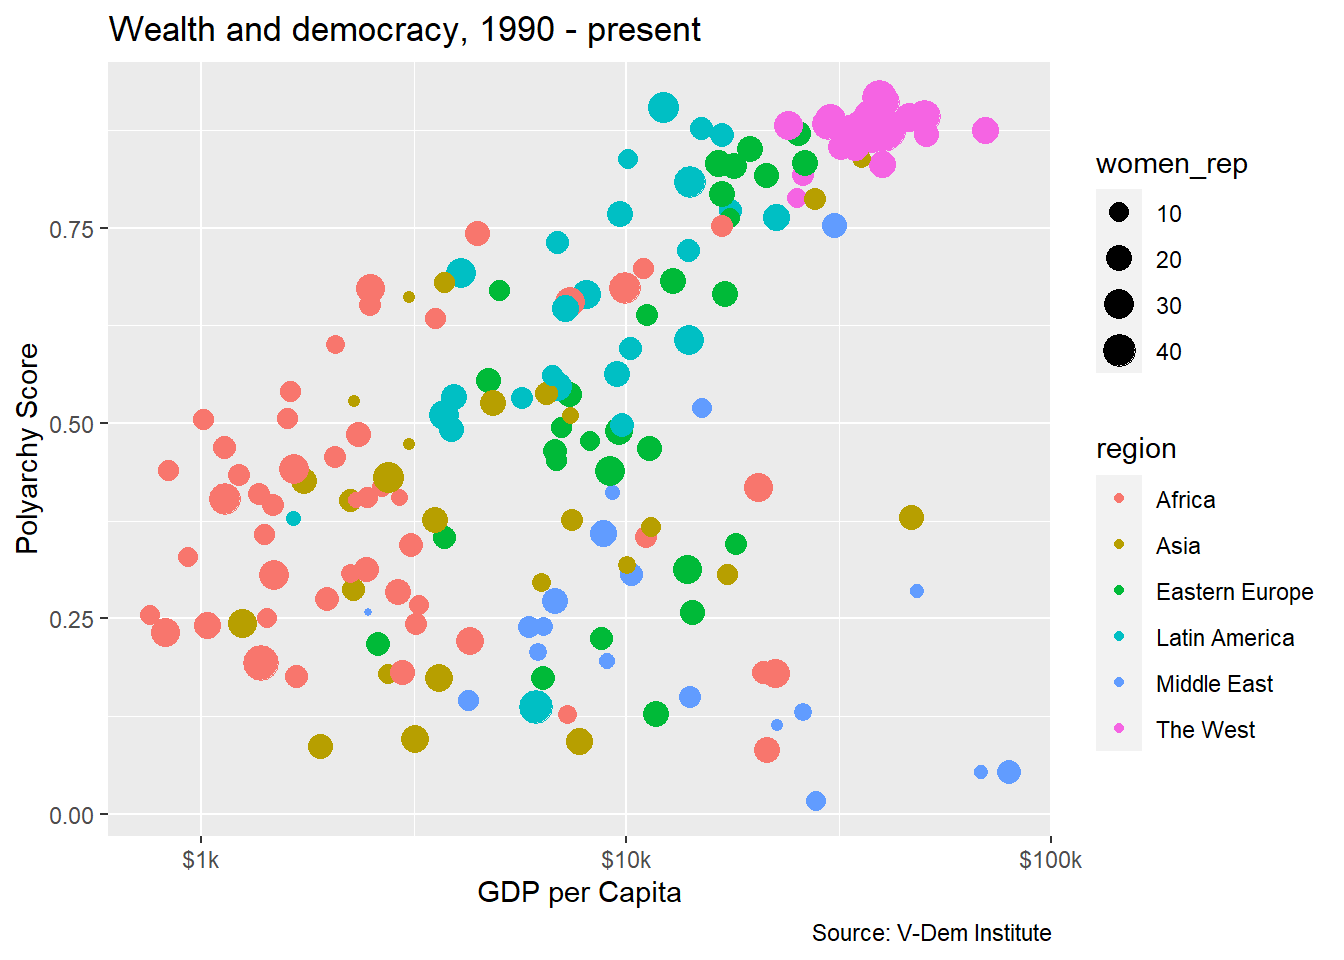
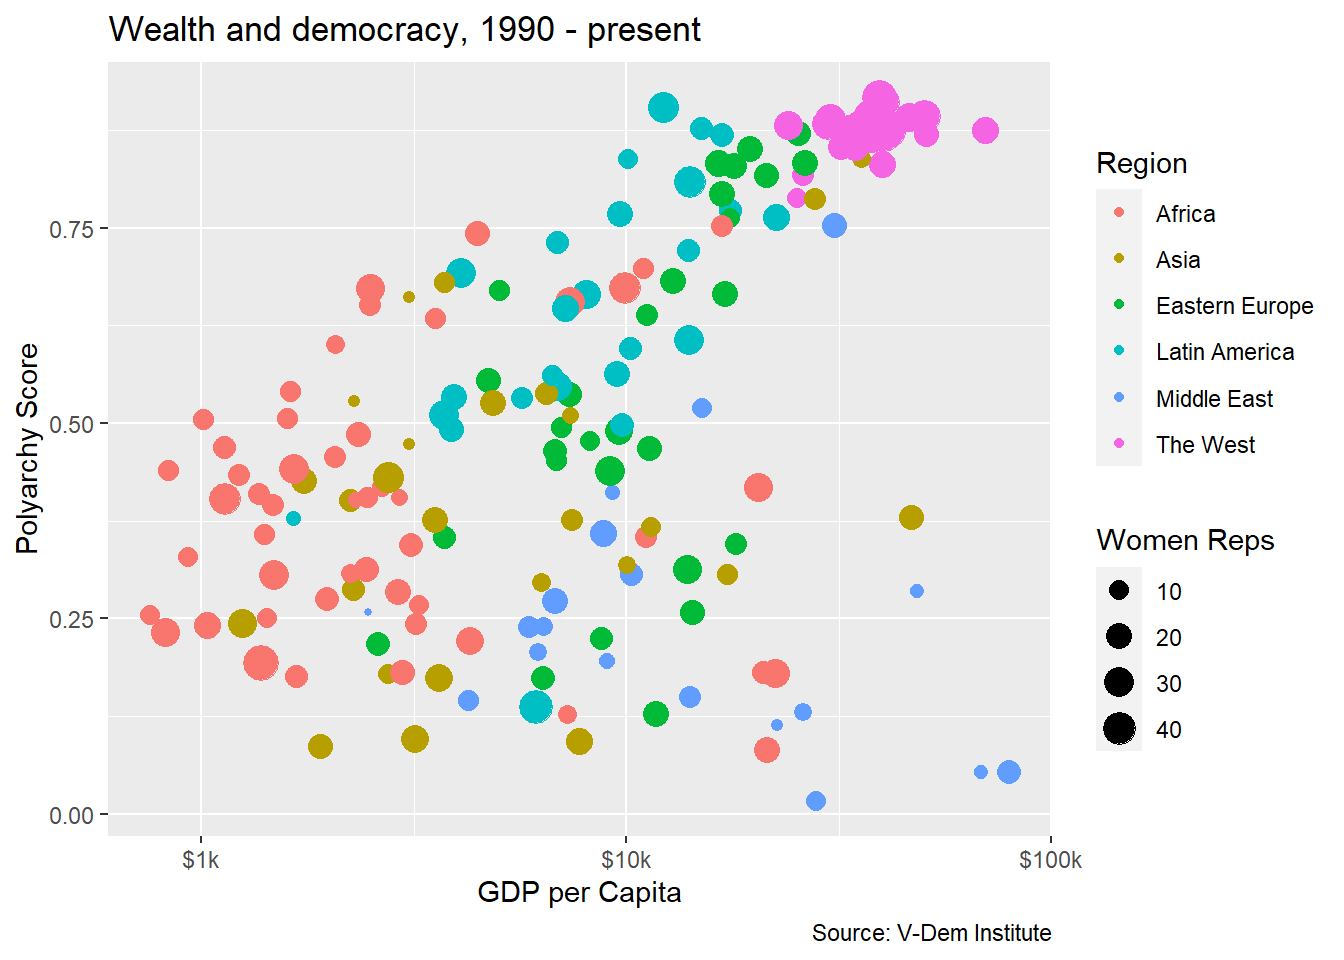
update module 2.1

diff --git a/_site/modules/module-2.1.html b/_site/modules/module-2.1.html
@@ -453,9 +453,10 @@ code span.wa { color: #60a0b0; font-weight: bold; font-style: italic; } /* Warni
 <span id="cb6-3"><a href="#cb6-3" aria-hidden="true" tabindex="-1"></a>  <span class="fu">labs</span>(</span>
 <span id="cb6-4"><a href="#cb6-4" aria-hidden="true" tabindex="-1"></a>    <span class="at">x =</span> <span class="st">"Year"</span>, </span>
 <span id="cb6-5"><a href="#cb6-5" aria-hidden="true" tabindex="-1"></a>    <span class="at">y =</span> <span class="st">"Polyarchy Score"</span>, </span>
-<span id="cb6-6"><a href="#cb6-6" aria-hidden="true" tabindex="-1"></a>    <span class="at">title =</span> <span class="st">"Levels of democracy in four countries"</span>, </span>
-<span id="cb6-7"><a href="#cb6-7" aria-hidden="true" tabindex="-1"></a>    <span class="at">caption =</span> <span class="st">"Source: V-Dem Institute"</span></span>
-<span id="cb6-8"><a href="#cb6-8" aria-hidden="true" tabindex="-1"></a>  )</span></code><button title="Copy to Clipboard" class="code-copy-button"><i class="bi"></i></button></pre></div>
+<span id="cb6-6"><a href="#cb6-6" aria-hidden="true" tabindex="-1"></a>    <span class="at">title =</span> <span class="st">'Democracy in countries representing three different "waves"'</span>, </span>
+<span id="cb6-7"><a href="#cb6-7" aria-hidden="true" tabindex="-1"></a>    <span class="at">caption =</span> <span class="st">"Source: V-Dem Institute"</span>, </span>
+<span id="cb6-8"><a href="#cb6-8" aria-hidden="true" tabindex="-1"></a>    <span class="at">color =</span> <span class="st">"Country"</span></span>
+<span id="cb6-9"><a href="#cb6-9" aria-hidden="true" tabindex="-1"></a>  )</span></code><button title="Copy to Clipboard" class="code-copy-button"><i class="bi"></i></button></pre></div>
 <div class="cell-output-display">
 <p><img src="module-2.1_files/figure-html/unnamed-chunk-6-1.png" class="img-fluid" width="672"></p>
 </div>
@@ -483,8 +484,10 @@ code span.wa { color: #60a0b0; font-weight: bold; font-style: italic; } /* Warni
 <span id="cb8-5"><a href="#cb8-5" aria-hidden="true" tabindex="-1"></a>    <span class="at">x=</span> <span class="st">"GDP per Capita"</span>, </span>
 <span id="cb8-6"><a href="#cb8-6" aria-hidden="true" tabindex="-1"></a>    <span class="at">y =</span> <span class="st">"Polyarchy Score"</span>,</span>
 <span id="cb8-7"><a href="#cb8-7" aria-hidden="true" tabindex="-1"></a>    <span class="at">title =</span> <span class="st">"Wealth and democracy, 1990 - present"</span>, </span>
-<span id="cb8-8"><a href="#cb8-8" aria-hidden="true" tabindex="-1"></a>    <span class="at">caption =</span> <span class="st">"Source: V-Dem Institute"</span></span>
-<span id="cb8-9"><a href="#cb8-9" aria-hidden="true" tabindex="-1"></a>    )</span></code><button title="Copy to Clipboard" class="code-copy-button"><i class="bi"></i></button></pre></div>
+<span id="cb8-8"><a href="#cb8-8" aria-hidden="true" tabindex="-1"></a>    <span class="at">caption =</span> <span class="st">"Source: V-Dem Institute"</span>, </span>
+<span id="cb8-9"><a href="#cb8-9" aria-hidden="true" tabindex="-1"></a>    <span class="at">color =</span> <span class="st">"Region"</span>,</span>
+<span id="cb8-10"><a href="#cb8-10" aria-hidden="true" tabindex="-1"></a>    <span class="at">size =</span> <span class="st">"Women Reps"</span></span>
+<span id="cb8-11"><a href="#cb8-11" aria-hidden="true" tabindex="-1"></a>    )</span></code><button title="Copy to Clipboard" class="code-copy-button"><i class="bi"></i></button></pre></div>
 <div class="cell-output-display">
 <p><img src="module-2.1_files/figure-html/unnamed-chunk-8-1.png" class="img-fluid" width="672"></p>
 </div>
@@ -498,8 +501,9 @@ code span.wa { color: #60a0b0; font-weight: bold; font-style: italic; } /* Warni
 <span id="cb9-6"><a href="#cb9-6" aria-hidden="true" tabindex="-1"></a>    <span class="at">x=</span> <span class="st">"GDP per Capita"</span>, </span>
 <span id="cb9-7"><a href="#cb9-7" aria-hidden="true" tabindex="-1"></a>    <span class="at">y =</span> <span class="st">"Polyarchy Score"</span>,</span>
 <span id="cb9-8"><a href="#cb9-8" aria-hidden="true" tabindex="-1"></a>    <span class="at">title =</span> <span class="st">"Wealth and democracy, 1990 - present"</span>, </span>
-<span id="cb9-9"><a href="#cb9-9" aria-hidden="true" tabindex="-1"></a>    <span class="at">caption =</span> <span class="st">"Source: V-Dem Institute"</span></span>
-<span id="cb9-10"><a href="#cb9-10" aria-hidden="true" tabindex="-1"></a>    )</span></code><button title="Copy to Clipboard" class="code-copy-button"><i class="bi"></i></button></pre></div>
+<span id="cb9-9"><a href="#cb9-9" aria-hidden="true" tabindex="-1"></a>    <span class="at">caption =</span> <span class="st">"Source: V-Dem Institute"</span>, </span>
+<span id="cb9-10"><a href="#cb9-10" aria-hidden="true" tabindex="-1"></a>    <span class="at">color =</span> <span class="st">"Region"</span></span>
+<span id="cb9-11"><a href="#cb9-11" aria-hidden="true" tabindex="-1"></a>    )</span></code><button title="Copy to Clipboard" class="code-copy-button"><i class="bi"></i></button></pre></div>
 <div class="cell-output-display">
 <p><img src="module-2.1_files/figure-html/unnamed-chunk-9-1.png" class="img-fluid" width="672"></p>
 </div>
